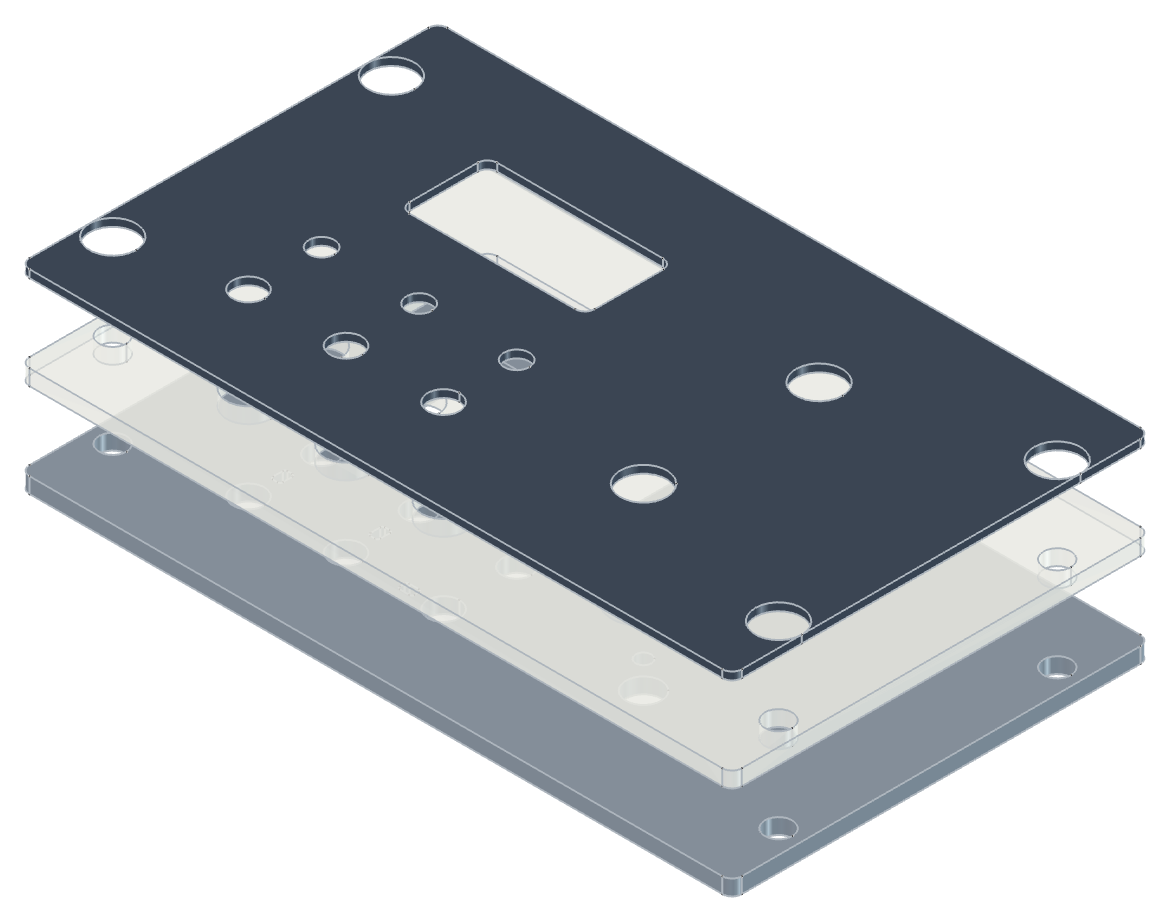
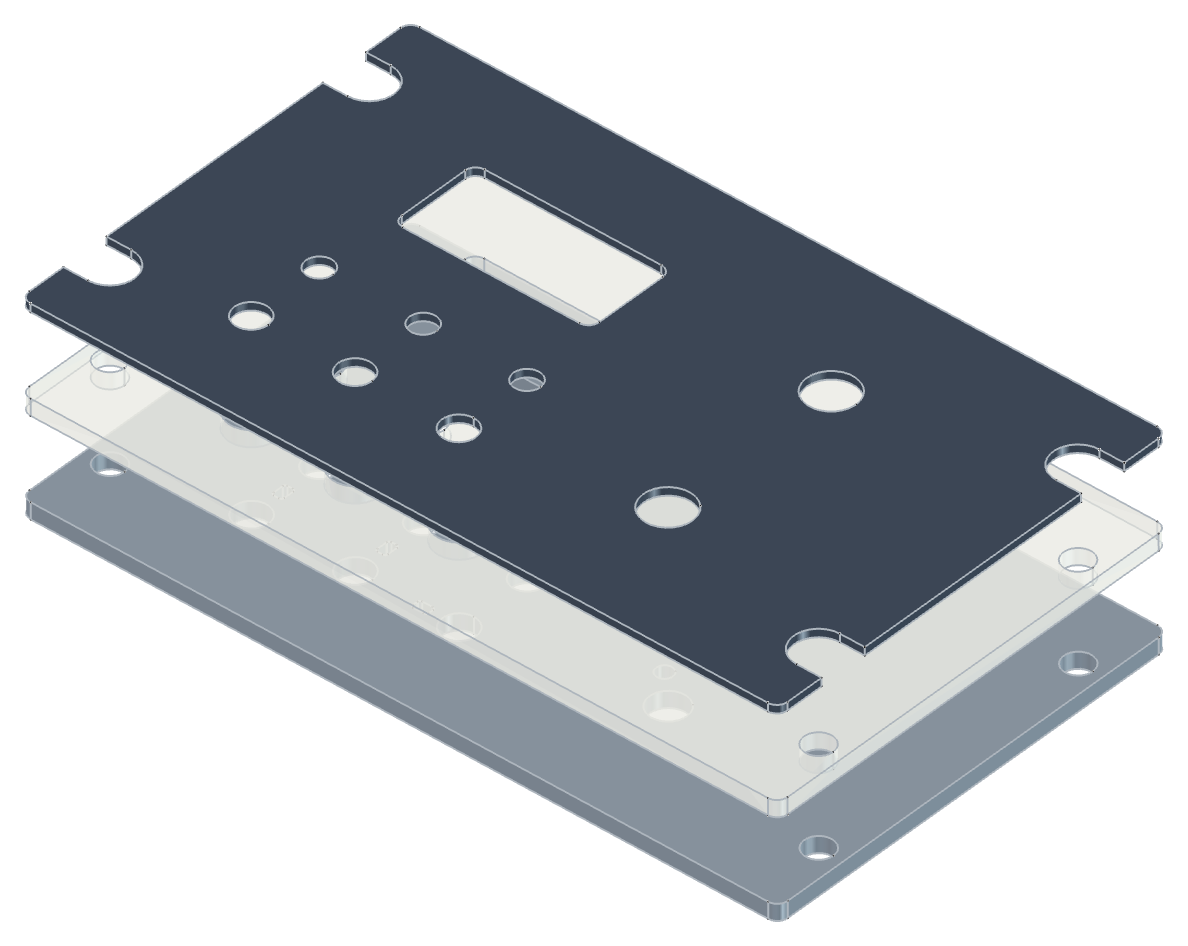
docs: README renders show the faceplate's Slot cut
Re-rendered the exploded view, the assembled stack and the side-by-side DXFs with the faceplate set to Slot, so every picture matches the LightBurn screenshot. Captions updated to match.

diff --git a/README.md b/README.md
@@ -109,9 +109,9 @@ Click **Plate Stack** in a document that has a Panel Blank. The dialog lists the
 
 Rename, add or remove layers and change thicknesses (`3`, `3 mm`, `1/8"`, `0.125 in`). Each layer becomes a Part Design Body with the same name. The faceplate's front face sits on the blank's sketch plane (z = 0) facing +z, and every further layer sits directly behind the one before, so the Top view shows the panel as seen in the cockpit.
 
-<p align="center"><img src="docs/images/stack_iso.png" width="560" alt="The assembled plate stack, faceplate on top, with screw-head recesses at the four mount points"></p>
+<p align="center"><img src="docs/images/stack_iso.png" width="560" alt="The assembled plate stack, faceplate on top, with a screw-head slot at each of the four mount points"></p>
 
-<p align="center"><em>The example stack assembled. The faceplate's Recess cut lets the screw heads sit down in the plate.</em></p>
+<p align="center"><em>The example stack assembled, faceplate on top.</em></p>
 
 | Fastener cut | What it cuts |
 |---|---|
@@ -140,7 +140,7 @@ Thicknesses, the recess Ø and the faceplate insets (`inset_l`, `inset_r`, `inse
 
 <p align="center"><img src="docs/images/lightburn_import.png" width="720" alt="The three exported DXFs imported into LightBurn: backplate and diffuser on the left, slotted faceplate selected on the right"></p>
 
-<p align="center"><em>The same files opened in LightBurn, ready to cut. Here the faceplate uses the Slot cut.</em></p>
+<p align="center"><em>The same files opened in LightBurn, ready to cut.</em></p>
 
 ## Tests
 
